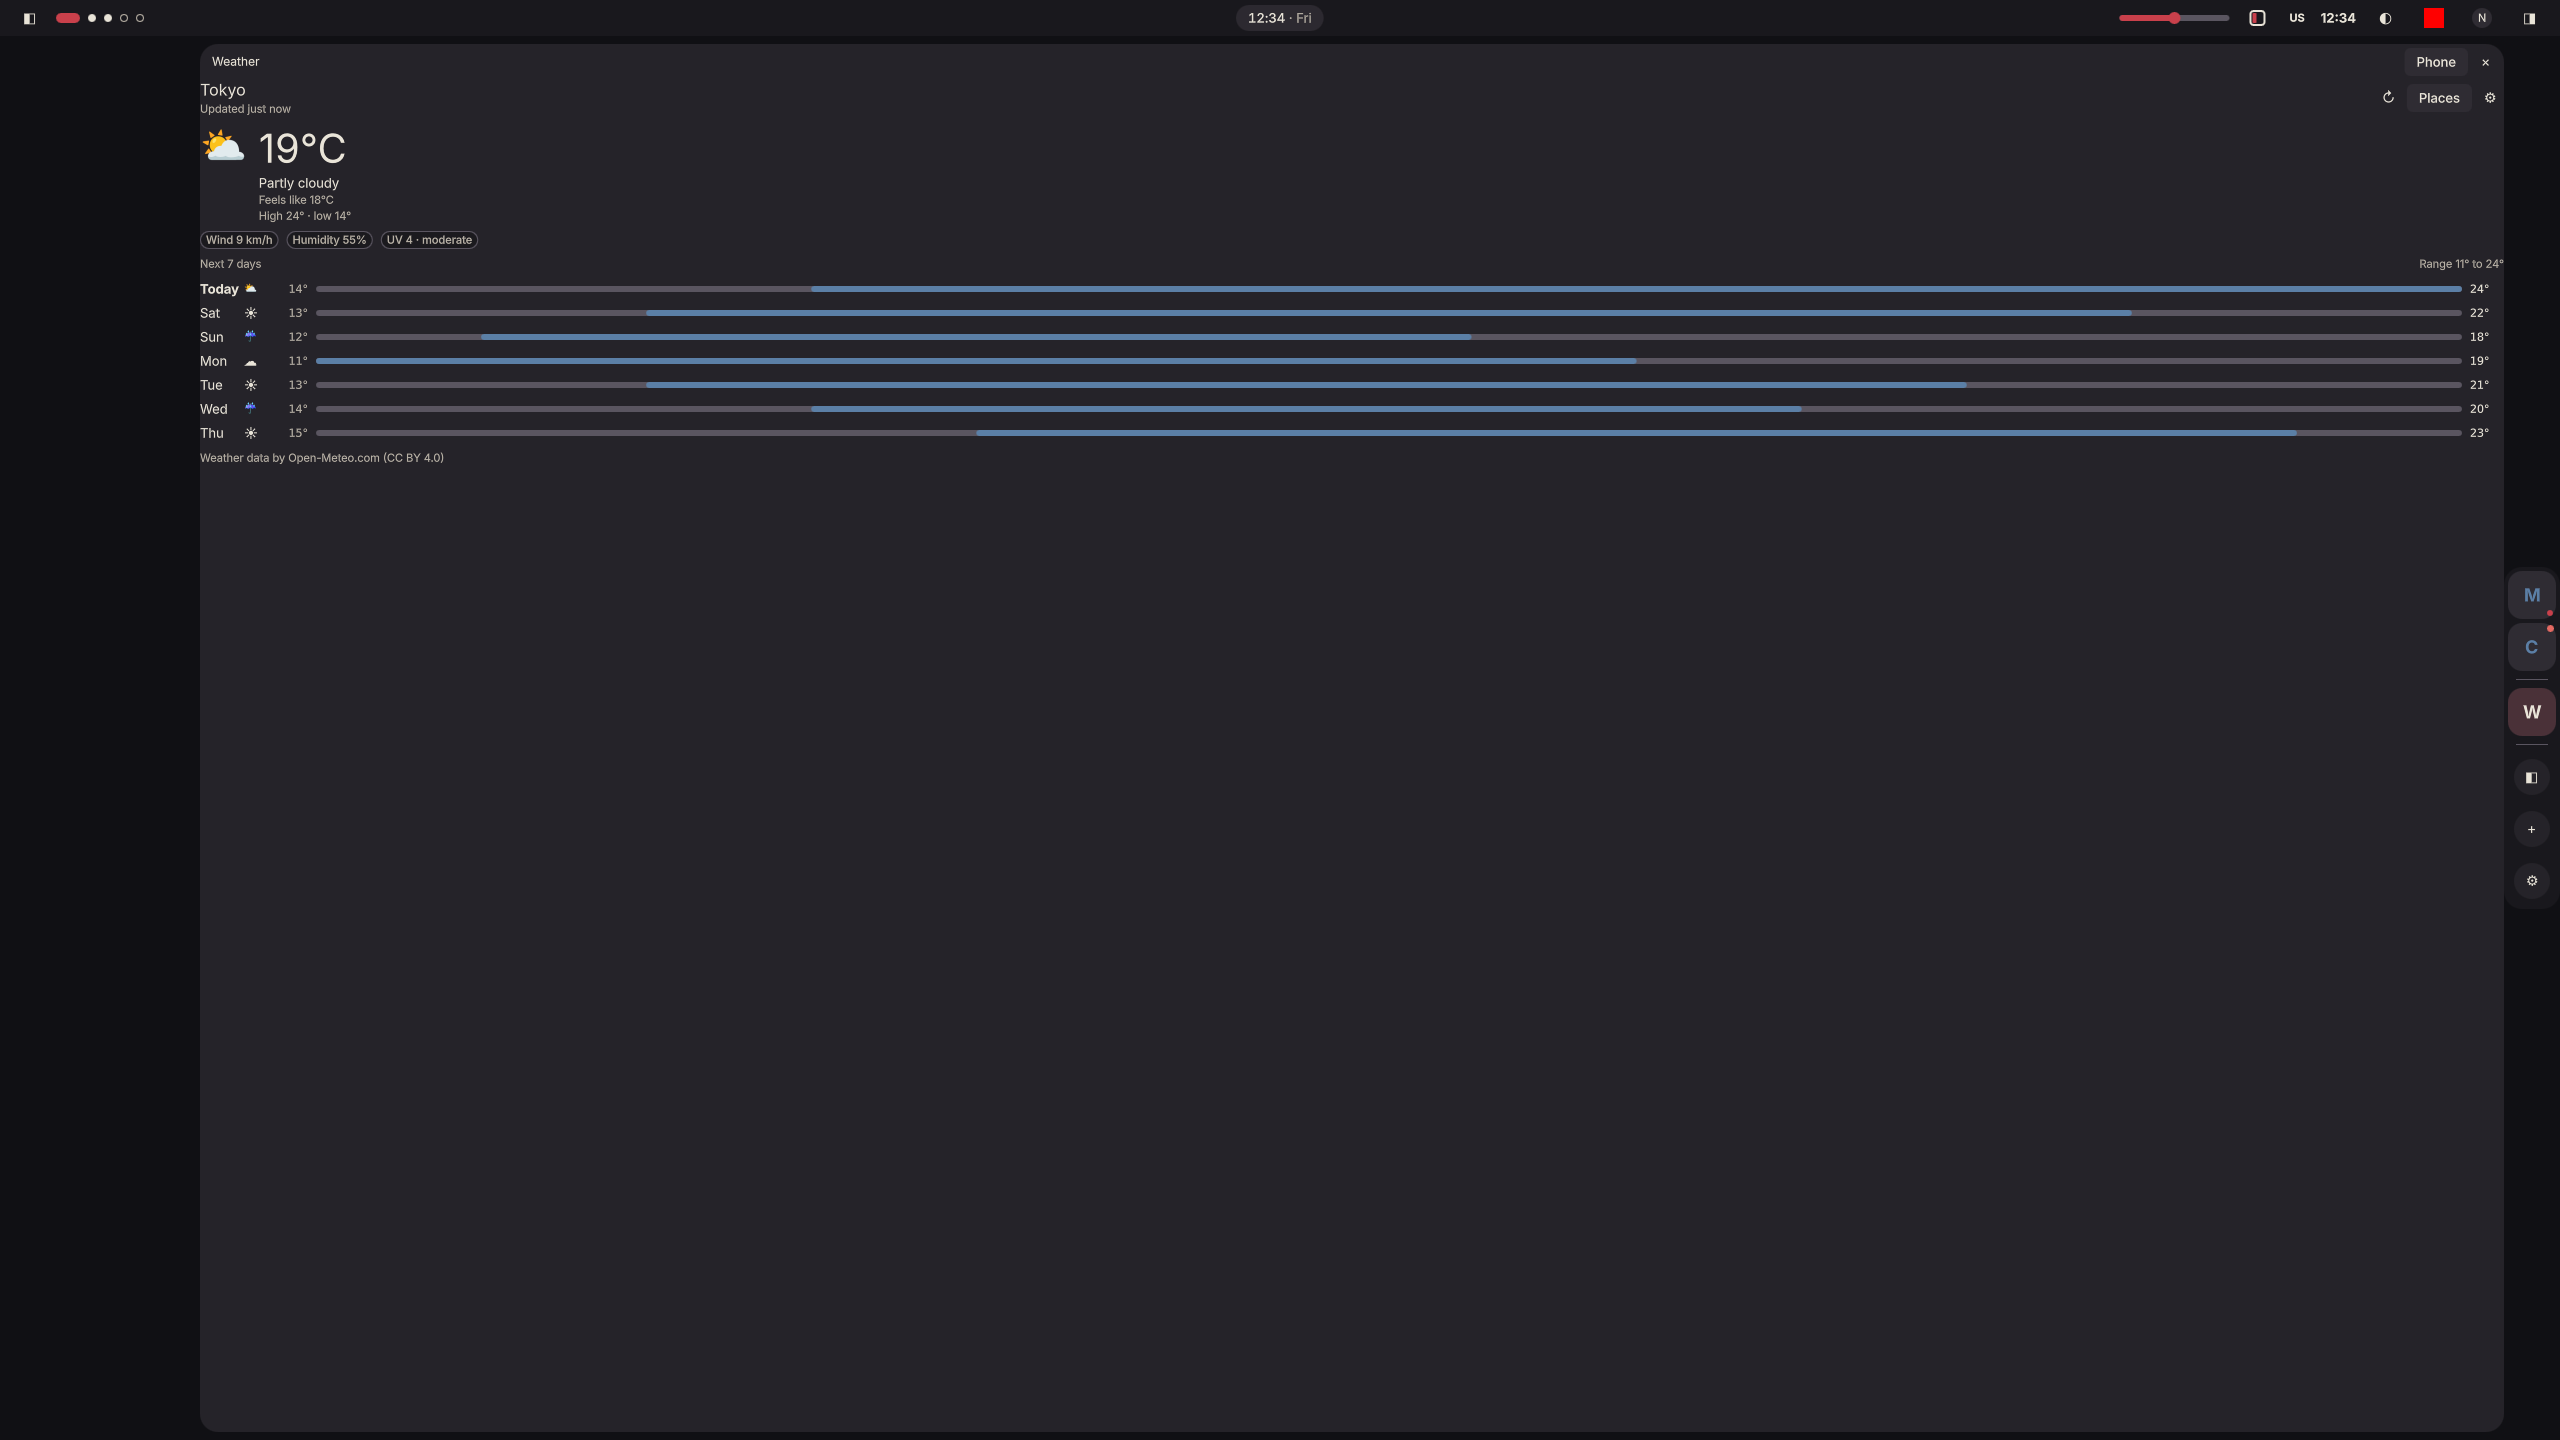
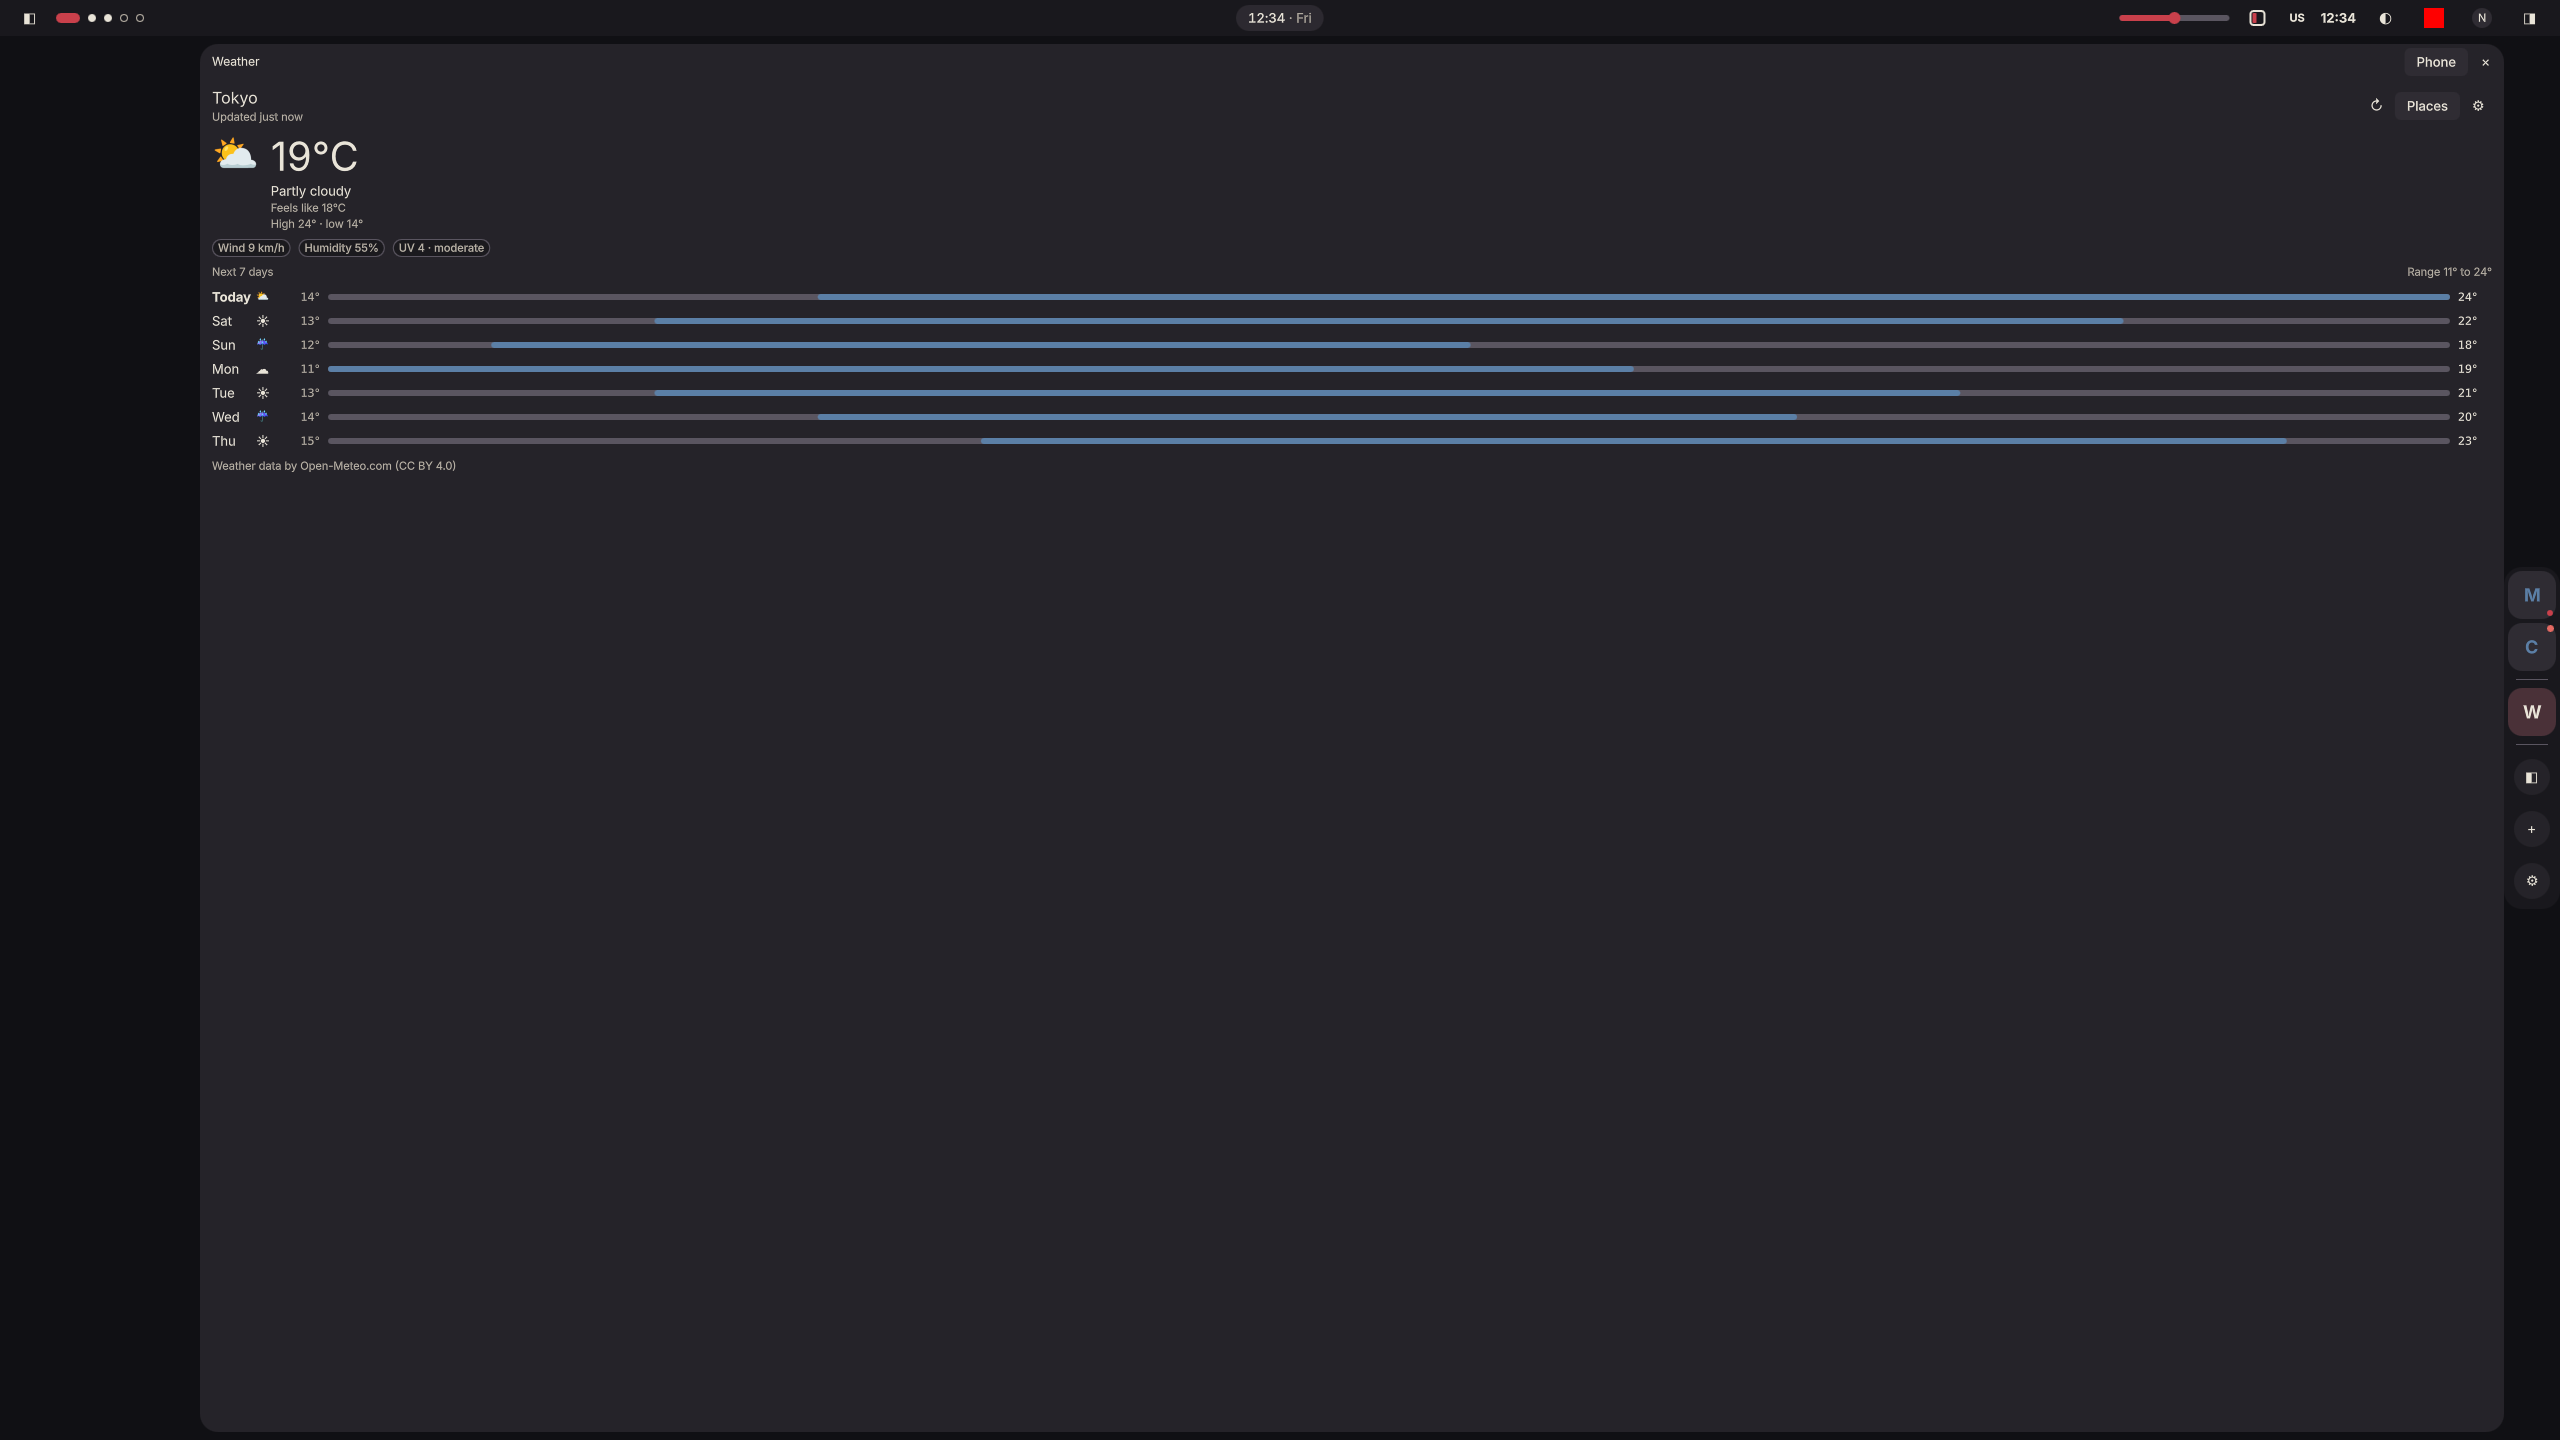
fix(webdock): the view card keeps clear of its edges; Tab reaches the view's controls (I90)
The large card's body had no inset, so the view's content touched the card's sides while the
header's title sat inset (dock-view-large.png). The body now keeps the same inset as the title in
both looks: Theme.pad at the sides, Theme.gap above and below.

Tab could not reach a view's own controls: the header's explicit Tab links closed a loop between
the size and collapse controls and the card. The header now links only size to collapse, and the
focus chain runs through the view's controls (Refresh, Places, settings) before the header again.

Test: test-dock's focus phase presses Tab from the strip until the view's Places control has
focus, then checks the size control is reached again. The card logs its focus changes under
KURASHI_WEBDOCK_DEBUG=1 (event-driven, no timer).

Changed region(s): [[0.0625, 0.0625, 0.9688, 0.3438], [0.9375, 0.0625, 0.9688, 0.0938]]

diff --git a/mods/webdock/qml/Card.qml b/mods/webdock/qml/Card.qml
@@ -1,4 +1,5 @@
 import QtQuick
+import Quickshell
 import qs.core
 import qs.components
 import qs.components.phone
@@ -27,8 +28,17 @@ Rectangle {
     Watch { doc: "svc.clock"; active: card.phoneLook }
     activeFocusOnTab: true
     Keys.onEscapePressed: card.escaped()
-    // Tab walks the header explicitly (size, collapse, and back to the card), not by the order of the focus chain.
-    KeyNavigation.tab: card.sizable ? sizeBtn : collapseBtn
+    // Tab follows the focus chain in tree order (I90): the header's size and collapse, then the view's own controls. The
+    // header's explicit Tab links used to close the loop at the header, so a view's controls were never reached.
+    readonly property bool debugLog: Quickshell.env("KURASHI_WEBDOCK_DEBUG") === "1"   // test-only: the focus, logged
+    // Test-only (KURASHI_WEBDOCK_DEBUG=1): each focus change of the window, by the focused control's name (event-driven).
+    Connections {
+        target: card.debugLog ? card.Window : null
+        function onActiveFocusItemChanged() {
+            var f = card.Window.activeFocusItem
+            console.log("webdock-debug focus", f ? (f.label || f.a11y || "") : "none")
+        }
+    }
 
     PhoneFrame {
         id: phone
@@ -85,7 +95,6 @@ Rectangle {
                 glyph: "×"
                 a11y: I18n.tr("webdock.nav.collapse")
                 onClicked: card.collapse()
-                KeyNavigation.tab: card
             }
         }
         // Phone: the title in a pill, as the host's phone has it (a keycap block: no press, so no sinking).
@@ -125,9 +134,11 @@ Rectangle {
         anchors.left: parent.left
         anchors.right: parent.right
         anchors.bottom: parent.bottom
-        // Phone: the view keeps clear of the screen's straight edges.
-        anchors.topMargin: card.phoneLook ? Theme.gap : 0
-        anchors.leftMargin: card.phoneLook ? Theme.pad : 0
-        anchors.rightMargin: card.phoneLook ? Theme.pad : 0
+        // The view keeps clear of the card's edges in both looks (I90): the large card's body had none, so the view's
+        // content touched the edge while the header's title sat inset. The sides line up with the title's inset.
+        anchors.topMargin: Theme.gap
+        anchors.bottomMargin: Theme.gap
+        anchors.leftMargin: Theme.pad
+        anchors.rightMargin: Theme.pad
     }
 }
